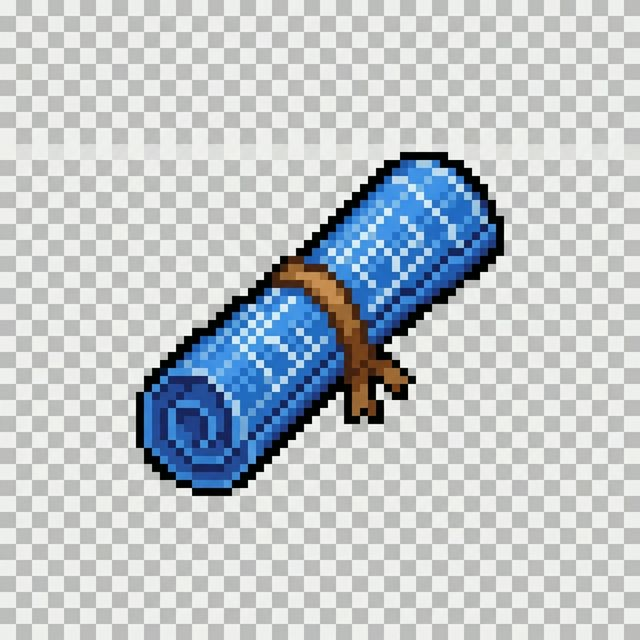
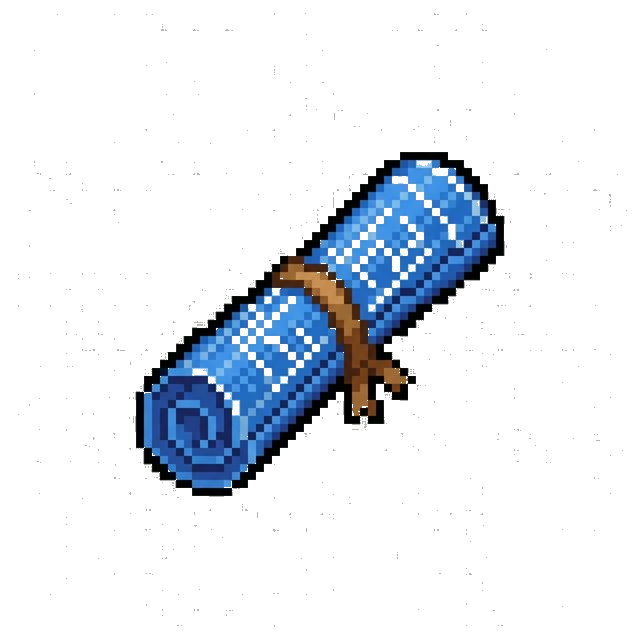
fix(assets): remove grey backgrounds from pixel art shop items
- Process all pixel art images to replace grey background with transparency

- Handle specific background color variations for 7 images

diff --git a/src/components/DistrictSelectionModal.tsx b/src/components/DistrictSelectionModal.tsx
@@ -1,9 +1,9 @@
 import { motion } from 'framer-motion';
-import PropTypes from 'prop-types';
 import React, { useState } from 'react';
 import { useTheme } from '../context/ThemeContext';
-import { DISTRICTS } from '../data/districts';
 import { auth } from '../firebase';
+import DistrictSelector from '../features/auth/components/DistrictSelector';
+import SelectedDistrictPreview from '../features/auth/components/SelectedDistrictPreview';
 import { ensureUserProfile } from '../utils/social';
 import { themeClasses } from '../utils/themeUtils';
 
@@ -31,14 +31,11 @@ const DistrictSelectionModal: React.FC<DistrictSelectionModalProps> = ({
       setLoading(true);
       setError('');
 
-      // Get current auth user
       const currentUser = auth.currentUser;
       if (!currentUser) {
         throw new Error('No authenticated user found');
       }
 
-      // Update user profile with selected district and email
-      // ensureUserProfile handles the team name logic automatically
       await ensureUserProfile(username, currentUser.uid, {
         district,
         email: currentUser.email || undefined,
@@ -58,7 +55,7 @@ const DistrictSelectionModal: React.FC<DistrictSelectionModalProps> = ({
       <motion.div
         initial={{ scale: 0.9, opacity: 0 }}
         animate={{ scale: 1, opacity: 1 }}
-        className={`w-full max-w-sm p-8 rounded-3xl shadow-2xl border ${themeClasses(theme, 'bg-slate-900 border-slate-700 text-white', 'bg-white border-slate-200 text-slate-900')}`}
+        className={`w-full max-w-md p-8 rounded-3xl shadow-2xl border ${themeClasses(theme, 'bg-slate-900 border-slate-700 text-white', 'bg-white border-slate-200 text-slate-900')}`}
       >
         <div className="text-center mb-6">
           <span className="text-4xl mb-2 block">🏆</span>
@@ -72,50 +69,15 @@ const DistrictSelectionModal: React.FC<DistrictSelectionModalProps> = ({
         </div>
 
         <div className="space-y-4">
-          <select
-            value={district}
-            onChange={e => setDistrict(e.target.value)}
-            aria-label={t('chooseATeam') || 'Choose a team'}
-            className={`w-full px-4 py-3 rounded-xl border font-medium outline-none focus:ring-2 focus:ring-sky-500 transition-all appearance-none cursor-pointer ${themeClasses(theme, 'bg-slate-800 border-slate-700 text-white placeholder-slate-600', 'bg-white border-slate-200 text-slate-900 placeholder-slate-400')}`}
-          >
-            <option value="" disabled>
-              {t('chooseATeam') || '🏆 Choose a team...'}
-            </option>
-            {DISTRICTS.map(d => (
-              <option key={d.id} value={d.id}>
-                {d.teamName}
-              </option>
-            ))}
-          </select>
+          <DistrictSelector
+            theme={theme as 'light' | 'dark'}
+            selectedDistrict={district}
+            onSelect={setDistrict}
+            showTeamName
+            maxHeight="max-h-56"
+          />
 
-          {district && (
-            <div className="p-4 rounded-xl bg-slate-100 dark:bg-slate-800 border border-slate-200 dark:border-slate-700 flex items-center gap-4 animate-fadeIn">
-              {(() => {
-                const d = DISTRICTS.find(dist => dist.id === district);
-                return d ? (
-                  <>
-                    <div
-                      className={`w-16 h-16 rounded-full bg-gradient-to-br ${d.color} p-0.5 shadow-lg flex-shrink-0`}
-                    >
-                      <div className="w-full h-full rounded-full bg-slate-900 flex items-center justify-center overflow-hidden border-2 border-white/20">
-                        <img src={d.logo} alt={d.teamName} className="w-full h-full object-cover" />
-                      </div>
-                    </div>
-                    <div>
-                      <p className="text-[10px] font-bold opacity-50 uppercase tracking-widest">
-                        {t('youAreJoining') || 'You are joining'}
-                      </p>
-                      <h3
-                        className={`text-lg font-black bg-gradient-to-r ${d.color} bg-clip-text text-transparent leading-tight`}
-                      >
-                        {d.teamName}
-                      </h3>
-                    </div>
-                  </>
-                ) : null;
-              })()}
-            </div>
-          )}
+          {district && <SelectedDistrictPreview districtId={district} t={t} />}
 
           {error && (
             <div className="p-3 text-xs text-rose-500 bg-rose-50 dark:bg-rose-900/20 rounded-lg text-center font-bold">
@@ -140,11 +102,6 @@ const DistrictSelectionModal: React.FC<DistrictSelectionModalProps> = ({
       </motion.div>
     </div>
   );
-};
-
-DistrictSelectionModal.propTypes = {
-  username: PropTypes.string.isRequired,
-  onComplete: PropTypes.func.isRequired,
 };
 
 export default DistrictSelectionModal;

diff --git a/scripts/publishNewsSupabase.js b/scripts/publishNewsSupabase.js
@@ -1,0 +1,93 @@
+import { createClient } from '@supabase/supabase-js';
+import { readFile } from 'fs/promises';
+import path from 'path';
+import readline from 'readline';
+
+/**
+ * Publish News Script (Supabase)
+ *
+ * Usage: node scripts/publishNewsSupabase.js
+ *
+ * Reads Supabase credentials from .env or .env.development
+ */
+
+const loadEnv = async () => {
+  const envFiles = ['.env', '.env.development', '.env.local'];
+  const vars = {};
+
+  for (const file of envFiles) {
+    try {
+      const content = await readFile(path.resolve(process.cwd(), file), 'utf8');
+      for (const line of content.split('\n')) {
+        const match = line.match(/^([^#=]+)=(.*)$/);
+        if (match) {
+          vars[match[1].trim()] = match[2].trim();
+        }
+      }
+    } catch {
+      // File not found, skip
+    }
+  }
+
+  return vars;
+};
+
+const run = async () => {
+  const env = await loadEnv();
+  const supabaseUrl = env.VITE_SUPABASE_URL;
+  const supabaseKey = env.SUPABASE_SERVICE_ROLE_KEY || env.VITE_SUPABASE_ANON_KEY;
+
+  if (!supabaseUrl || !supabaseKey) {
+    console.error('Missing VITE_SUPABASE_URL or VITE_SUPABASE_ANON_KEY in .env files');
+    process.exit(1);
+  }
+
+  const supabase = createClient(supabaseUrl, supabaseKey);
+  console.log('Connected to Supabase');
+
+  const rl = readline.createInterface({
+    input: process.stdin,
+    output: process.stdout,
+  });
+
+  const question = query => new Promise(resolve => rl.question(query, resolve));
+
+  console.log('\n--- Publish New Announcement (Supabase) ---\n');
+
+  const title = await question('Title: ');
+  const body = await question('Body (use \\n for newlines): ');
+  const priority = (await question('Priority (normal/high/urgent) [normal]: ')) || 'normal';
+  const confirm = await question(`\nPublish "${title}"? (y/N): `);
+
+  if (confirm.toLowerCase() === 'y') {
+    const now = new Date().toISOString();
+    const expiry = new Date();
+    expiry.setDate(expiry.getDate() + 30);
+
+    const { data, error } = await supabase
+      .from('announcements')
+      .insert({
+        title,
+        body: body.replace(/\\n/g, '\n'),
+        priority,
+        target_audience: 'all',
+        publish_date: now,
+        expiry_date: expiry.toISOString(),
+        is_active: true,
+      })
+      .select()
+      .single();
+
+    if (error) {
+      console.error('Error publishing:', error.message);
+    } else {
+      console.log(`Announcement published! ID: ${data.id}`);
+    }
+  } else {
+    console.log('Cancelled.');
+  }
+
+  rl.close();
+};
+
+run();

diff --git a/src/features/game/components/GamePage.tsx b/src/features/game/components/GamePage.tsx
@@ -1,5 +1,5 @@
 import { AnimatePresence } from 'framer-motion';
-import { Suspense, useCallback, useEffect, useMemo, useState } from 'react';
+import { Suspense, useEffect, useMemo } from 'react';
 import { useLocation } from 'react-router-dom';
 import AchievementModal from '../../../components/AchievementModal';
 import AnnouncementModal from '../../../components/AnnouncementModal';
@@ -7,6 +7,7 @@ import DistrictSelectionModal from '../../../components/DistrictSelectionModal';
 import { GameProvider } from '../../../context/GameContext';
 import { useAchievements } from '../../../hooks/useAchievements';
 import { useAnnouncements } from '../../../hooks/useAnnouncements';
+import { useAuthRedirect } from '../../../hooks/useAuthRedirect';
 import { hasPlayedToday } from '../../../utils/game/dailyChallenge';
 import useGameState from '../hooks/useGameState';
 import useStreets from '../hooks/useStreets';
@@ -52,7 +53,11 @@ const GamePageContent = ({ username }: GamePageProps) => {
   const announcements = useAnnouncements(state.username || '');
   const achievements = useAchievements(state.username || '', state.gameState, location.pathname);
 
-  const [showDistrictModal, setShowDistrictModal] = useState(false);
+  // District check — prompts logged-in users without a team to pick one
+  const { showDistrictModal, handleDistrictComplete } = useAuthRedirect({
+    username: state.username,
+    handleRegister,
+  });
 
   // Check announcements on home screen
   useEffect(() => {
@@ -61,10 +66,6 @@ const GamePageContent = ({ username }: GamePageProps) => {
     }
     // eslint-disable-next-line react-hooks/exhaustive-deps
   }, [state.username]);
-
-  const handleDistrictComplete = useCallback(async () => {
-    setShowDistrictModal(false);
-  }, []);
 
   const providerValue = useMemo(
     () => ({

diff --git a/src/components/AboutScreen.tsx b/src/components/AboutScreen.tsx
@@ -30,12 +30,12 @@ const AboutScreen: React.FC = () => {
             <h3 className="font-bold text-lg mt-8 text-sky-500">Tech Stack</h3>
             <div className="grid grid-cols-2 gap-4">
               <div className="p-3 bg-slate-100 dark:bg-slate-800 rounded-xl border border-slate-200 dark:border-slate-700">
-                <div className="font-bold mb-1">React 18</div>
-                <div className="text-xs opacity-60">Vite, Hooks, Context</div>
+                <div className="font-bold mb-1">React 19</div>
+                <div className="text-xs opacity-60">Vite 7, Hooks, Context</div>
               </div>
               <div className="p-3 bg-slate-100 dark:bg-slate-800 rounded-xl border border-slate-200 dark:border-slate-700">
-                <div className="font-bold mb-1">Firebase</div>
-                <div className="text-xs opacity-60">Auth, Firestore, Hosting</div>
+                <div className="font-bold mb-1">Supabase</div>
+                <div className="text-xs opacity-60">PostgreSQL, Auth, Realtime</div>
               </div>
               <div className="p-3 bg-slate-100 dark:bg-slate-800 rounded-xl border border-slate-200 dark:border-slate-700">
                 <div className="font-bold mb-1">TailwindCSS</div>

diff --git a/src/features/game/components/SummaryScreen.tsx b/src/features/game/components/SummaryScreen.tsx
@@ -27,6 +27,7 @@ interface SummaryScreenProps {
   realName?: string;
   streak?: number;
   onRestart: () => void;
+  onBackToMenu: () => void;
   quizResults: QuizResult[];
   quizStreets: Street[];
   t: (key: string) => string;
@@ -39,6 +40,7 @@ const SummaryScreen: React.FC<SummaryScreenProps> = ({
   username,
   streak,
   onRestart,
+  onBackToMenu,
   quizStreets,
   t,
 }) => {
@@ -255,9 +257,9 @@ const SummaryScreen: React.FC<SummaryScreenProps> = ({
           </button>
 
           <button
-            onClick={() => navigate('/')}
-            className="w-full py-3 rounded-xl font-medium text-sm uppercase tracking-wider transition-all
-               bg-transparent text-slate-400 hover:text-white border border-slate-700/50 hover:border-slate-500 mb-6"
+            onClick={onBackToMenu}
+            className="w-full py-4 rounded-xl font-bold text-sm uppercase tracking-wider transition-all
+               bg-slate-800/60 text-slate-300 hover:bg-slate-700 hover:text-white border border-slate-700 hover:border-slate-500 mb-6"
           >
             🏠 {t('backToMenu') || 'Back to Menu'}
           </button>

diff --git a/src/features/game/components/GameScreen.tsx b/src/features/game/components/GameScreen.tsx
@@ -177,6 +177,7 @@ const GameScreen: FC = () => {
             realName={state.realName ?? undefined} // Pass real name
             streak={state.streak} // Pass streak
             onRestart={() => handlers.setupGame()}
+            onBackToMenu={() => dispatch({ type: 'SET_GAME_STATE', payload: 'intro' })}
             quizResults={state.quizResults}
             quizStreets={state.quizStreets}
             t={t}

diff --git a/src/features/game/components/__tests__/SummaryScreen.integration.test.tsx b/src/features/game/components/__tests__/SummaryScreen.integration.test.tsx
@@ -62,6 +62,7 @@ describe('SummaryScreen Integration', () => {
       theme: 'light' as const,
       streak: 5,
       onRestart: vi.fn(),
+      onBackToMenu: vi.fn(),
       quizResults: Array(5).fill({ time: 5, status: 'correct', points: 1000 }),
       quizStreets: Array(5).fill({ id: 's1', name: 'Test Street' }),
       t: (key: string) => key,
